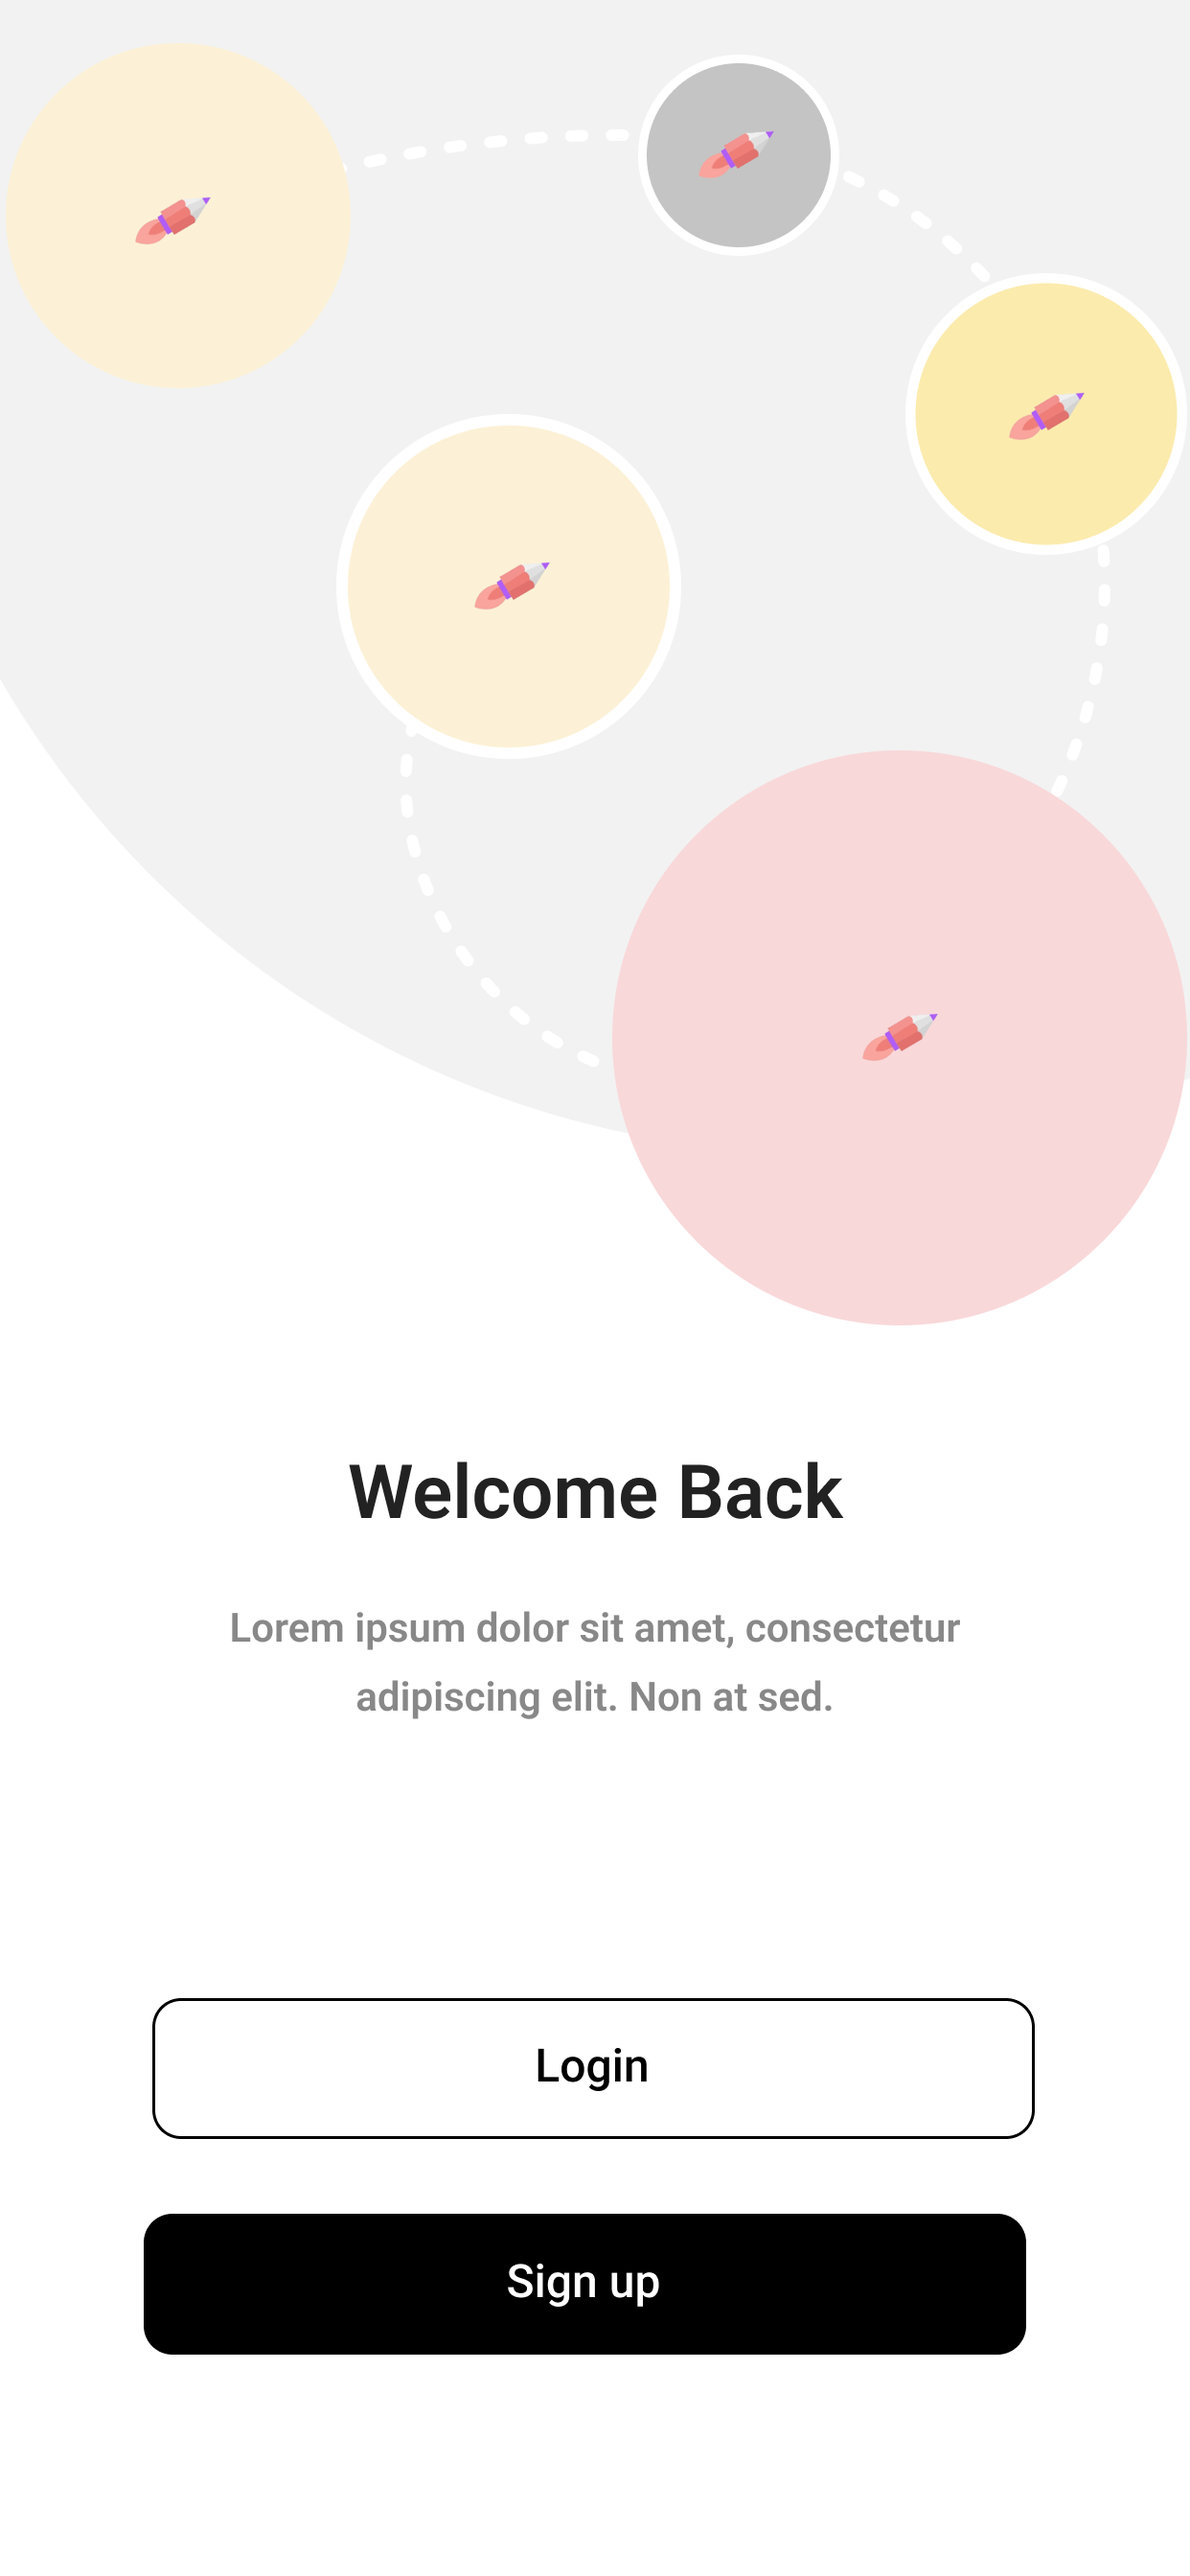
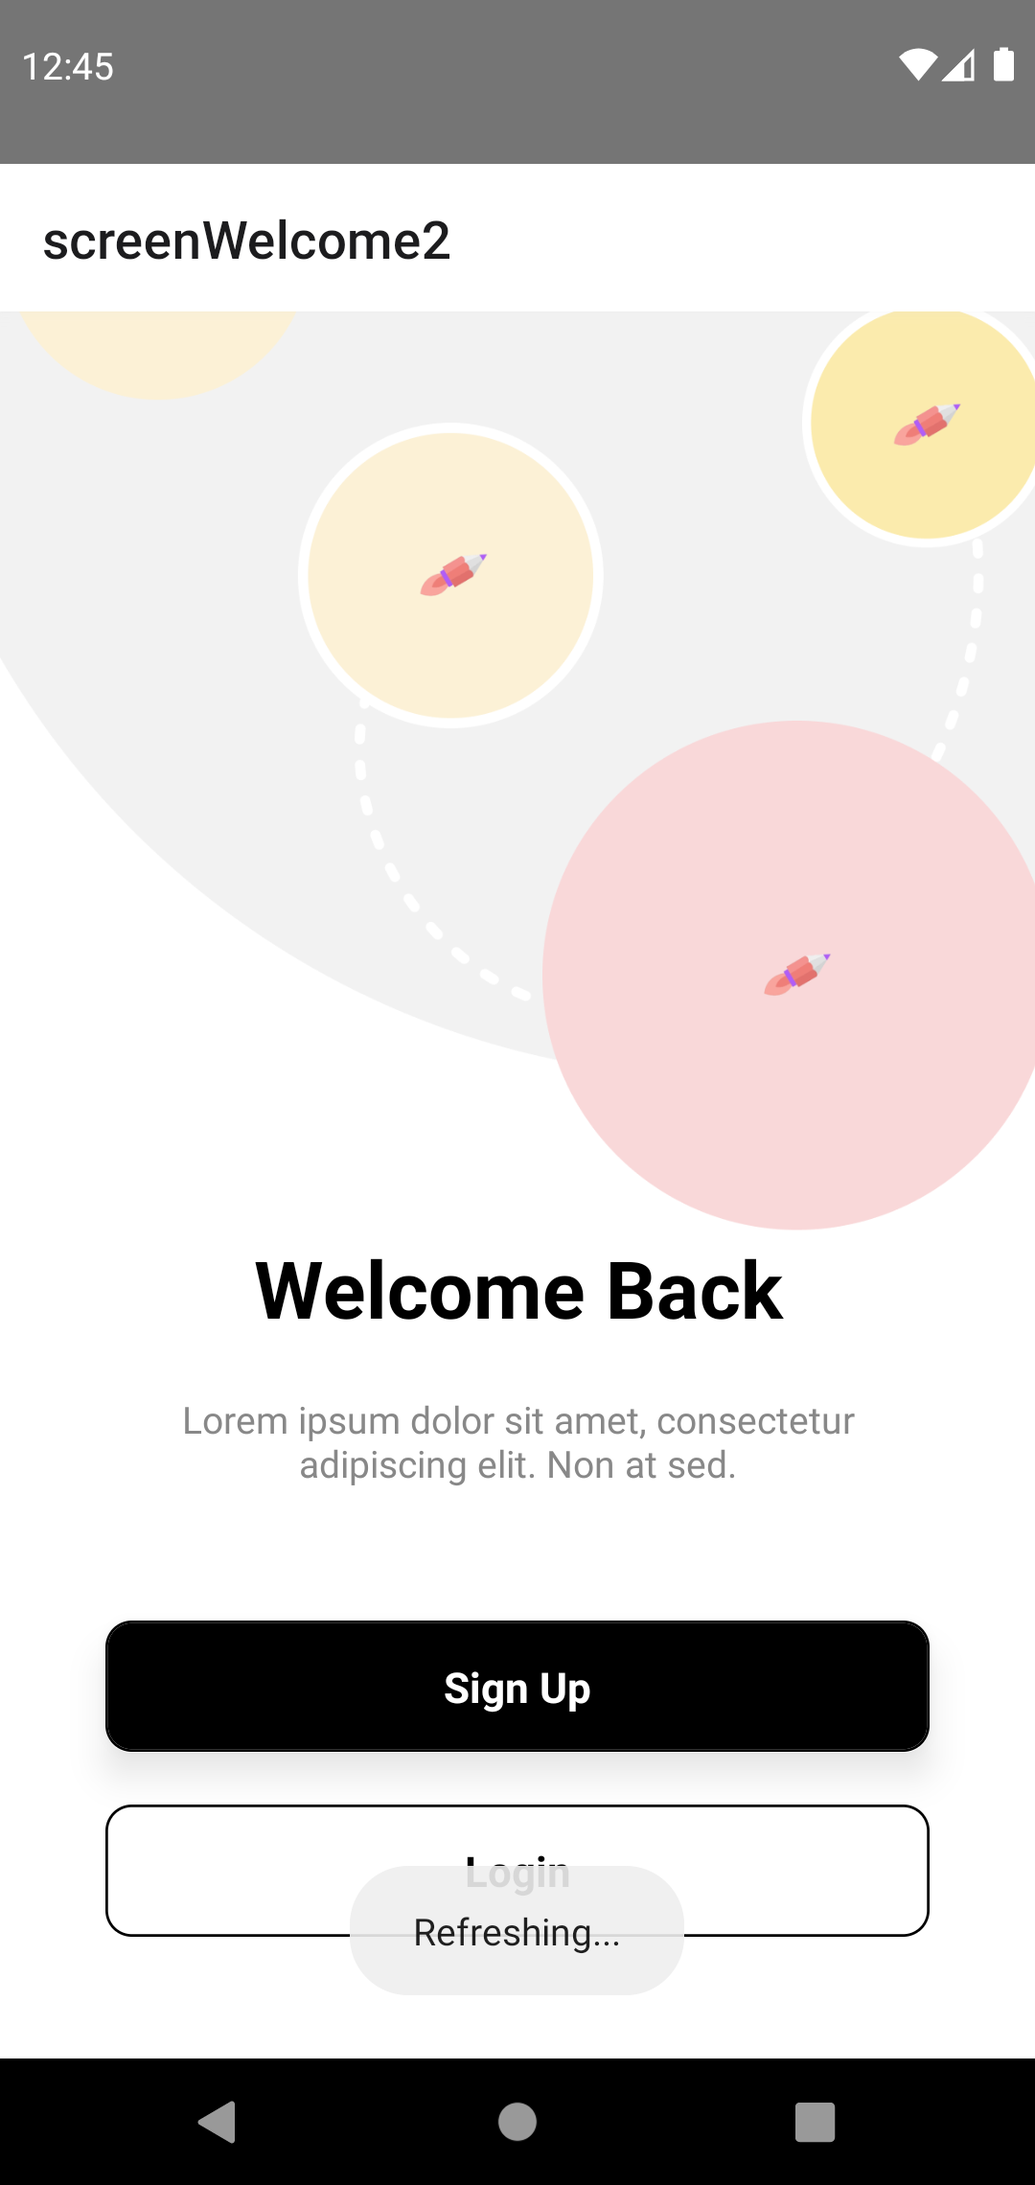
screen welcome2 added

diff --git a/screens/screen-welcome-2/index.js b/screens/screen-welcome-2/index.js
@@ -2,24 +2,137 @@ import React from "react";
 import {
   Text,
   View,
-  StyleSheet
+  StyleSheet,
+  Image,
+  Dimensions,
+  Pressable
 } from "react-native";
+
+const windowWidth = Dimensions.get("window").width;
+const windowHeight = Dimensions.get("window").height;
 
 const Welcome2 = () => {
   return (
     <View style={styles.container}>
-      <Text style={styles.heading}>Welcome-2</Text>
+      <Image
+        style={styles.background}
+        source={require("./assets/background2.png")}
+      />
+      <Text style={styles.heading}>Welcome Back</Text>
+      <Text style={styles.description}>
+        Lorem ipsum dolor sit amet, consectetur adipiscing elit. Non at sed.
+      </Text>
+      <View style={styles.buttonContainer}>
+        <Button buttonText="Sign Up" style={styles.button} />
+        <Button
+          buttonText="Login"
+          style={styles.button}
+          borderColor="#000"
+          backgroundColor="#fff"
+          textColor="#000"
+          hideShadow
+        />
+      </View>
     </View>
   );
 };
 const styles = StyleSheet.create({
   container: {
     flex: 1,
-    backgroundColor: "#fff"
+    backgroundColor: "#fff",
+    width: windowWidth,
+    height: windowHeight
   },
   heading: {
-    fontSize: 20
+    fontSize: 30,
+    fontWeight: "bold",
+    color: "#000",
+    textAlign: "center"
+  },
+  description: {
+    fontSize: 14,
+    color: "#888888",
+    textAlign: "center",
+    paddingHorizontal: 40,
+    marginVertical: 20
+  },
+  buttonContainer: {
+    justifyContent: "space-between",
+    paddingHorizontal: 20,
+    marginTop: 20
+  },
+  button: {
+    marginHorizontal: 20,
+    marginVertical: 10
+  },
+  background: {
+    width: 400,
+    height: 350
   }
 });
 
 export default Welcome2;
+
+const Button = params => {
+  const backgroundColor = params.backgroundColor || "#000";
+  const textColor = params.textColor || "#fff";
+  const btnStyle = {
+    backgroundColor: backgroundColor,
+    borderColor: params.borderColor || backgroundColor,
+    borderWidth: 1
+  };
+  const btnText = {
+    color: textColor
+  };
+  return (
+    <View style={[buttonStyles.btnContainer, params.style]}>
+      <View style={!params.hideShadow ? buttonStyles.shadowContainer : null}>
+        <Pressable
+          style={[buttonStyles.btn, btnStyle]}
+          onPress={params.onPress}>
+          <Text style={[buttonStyles.btnText, btnText]}>
+            {params.buttonText}
+          </Text>
+          <View style={styles.childrenContainer}>{params.children}</View>
+        </Pressable>
+      </View>
+    </View>
+  );
+};
+
+const buttonStyles = StyleSheet.create({
+  btnContainer: {
+    justifyContent: "center"
+  },
+  shadowContainer: {
+    shadowColor: "rgba(0, 0, 0, 0.5)",
+    shadowOffset: {
+      width: 0,
+      height: 5
+    },
+    shadowOpacity: 0.5,
+    shadowRadius: 10,
+    elevation: 10,
+    backgroundColor: "#fff",
+    borderRadius: 10
+  },
+  btn: {
+    height: 50,
+    padding: 10,
+    paddingHorizontal: 25,
+    borderRadius: 10,
+    justifyContent: "center",
+    alignItems: "center",
+
+    flexDirection: "row"
+  },
+  btnText: {
+    color: "#fff",
+    fontSize: 16,
+    fontWeight: "bold"
+  },
+  childrenContainer: {
+    justifyContent: "center",
+    alignItems: "center"
+  }
+});

diff --git a/modules/index.js b/modules/index.js
@@ -2,7 +2,7 @@ import mods from "./*/index.js";
 import { getModules } from "./modules.js";
 
 export const modules = getModules(mods);
-export const initialRoute = "screenWelcome1";
+export const initialRoute = "screenWelcome2";
 // export const initialRoute = modules[0].value.title;
 export const slices = modules
   .filter(mod => mod.value.slice)
